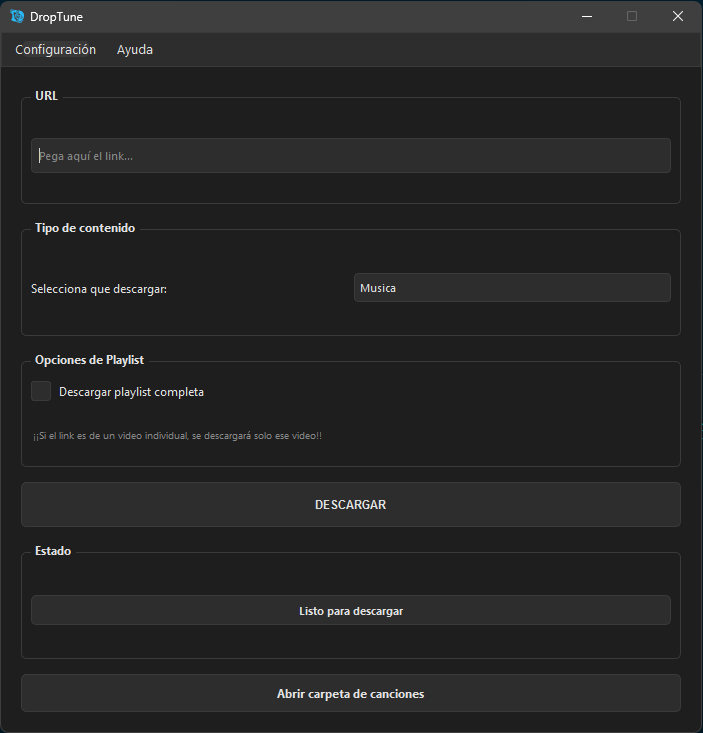
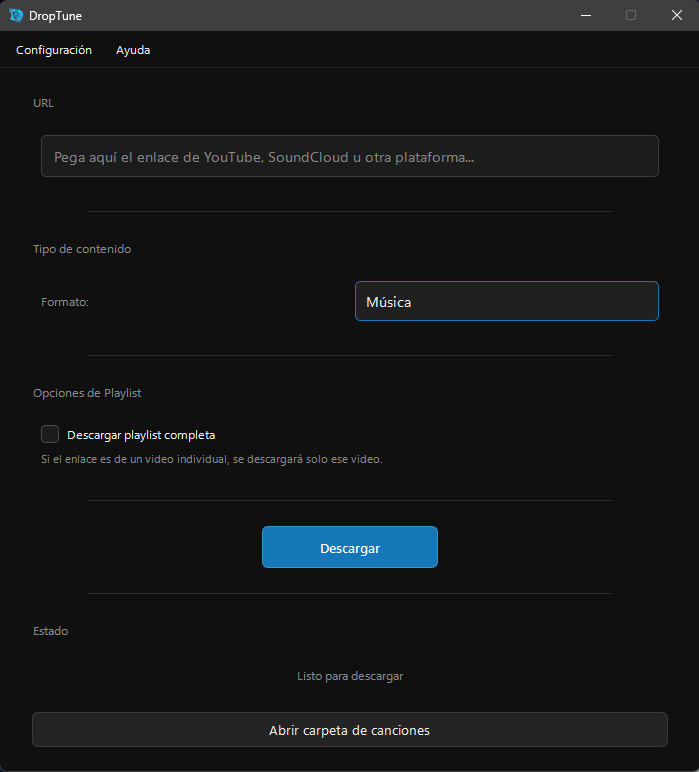
Add files via upload

diff --git a/index.html b/index.html
@@ -91,7 +91,7 @@
     <section class="hero">
         <div class="hero-content">
             <div class="hero-badge">
-                <span>v1.2</span>
+                <span>v1.3</span>
                 <img src="img/win11_logo.png" alt="Windows" class="badge-logo">
                 <span>Windows</span>
             </div>
@@ -103,7 +103,7 @@
                 Una interfaz gráfica simple y rápida para descargar tu contenido favorito en la mejor calidad posible. Sin comandos, sin complicaciones en Windows.
             </p>
             <div class="hero-buttons">
-                <a href="https://www.mediafire.com/file/7x1ww7eoajaf10k/DropTune+-+Final+Build.zip/file"
+                <a href="https://www.mediafire.com/file/u0gcgbspg8qj7no/DropTune+v1.3+-+FINAL+BUILD.zip/file"
                    class="btn btn-primary" target="_blank" rel="noopener noreferrer">
                     <img src="img/download_icon.png" alt="" class="btn-icon">
                     <span>Descargar Gratis</span>
@@ -298,7 +298,7 @@
                     <div class="download-info">
                         <div class="info-item">
                             <span class="info-label">Versión</span>
-                            <span class="info-value">1.2</span>
+                            <span class="info-value">1.3</span>
                         </div>
                         <div class="info-item">
                             <span class="info-label">Tamaño</span>
@@ -309,12 +309,12 @@
                             <span class="info-value">Windows 10+</span>
                         </div>
                     </div>
-                    <a href="https://www.mediafire.com/file/7x1ww7eoajaf10k/DropTune+-+Final+Build.zip/file"
+                    <a href="https://www.mediafire.com/file/u0gcgbspg8qj7no/DropTune+v1.3+-+FINAL+BUILD.zip/file"
                        class="btn btn-download" target="_blank" rel="noopener noreferrer">
                         <img src="img/download_icon.png" alt="" class="btn-icon">
                         <div class="btn-text">
                             <span class="btn-main">Descargar DropTune</span>
-                            <span class="btn-sub">v1.2 - Gratis</span>
+                            <span class="btn-sub">v1.3 - Gratis</span>
                         </div>
                     </a>
                 </div>